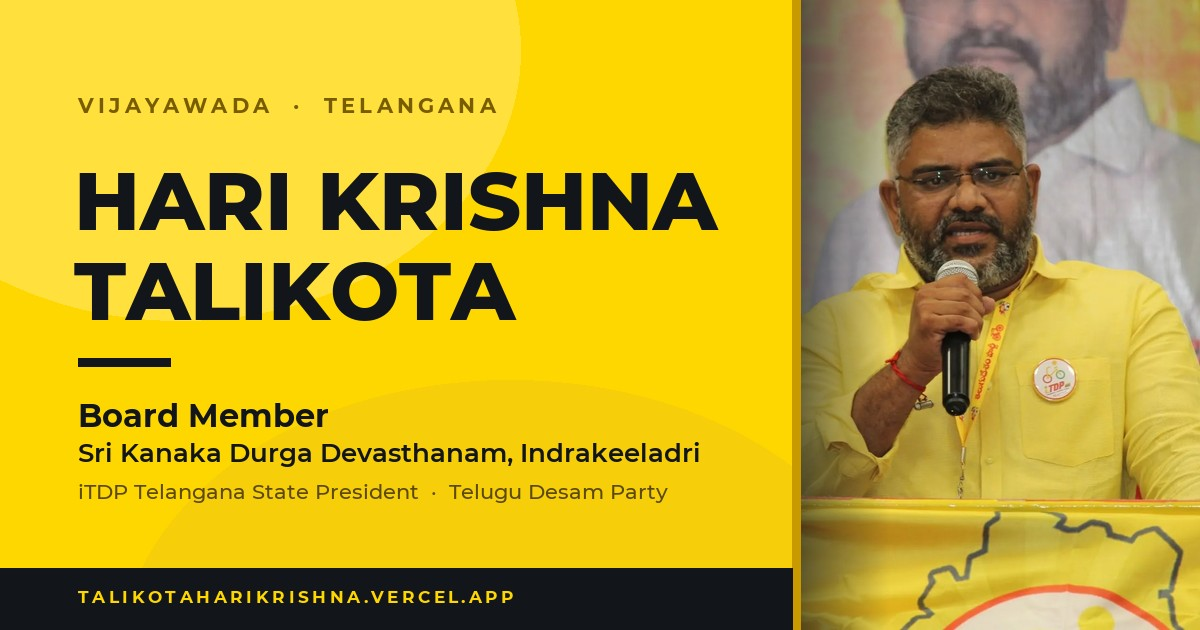
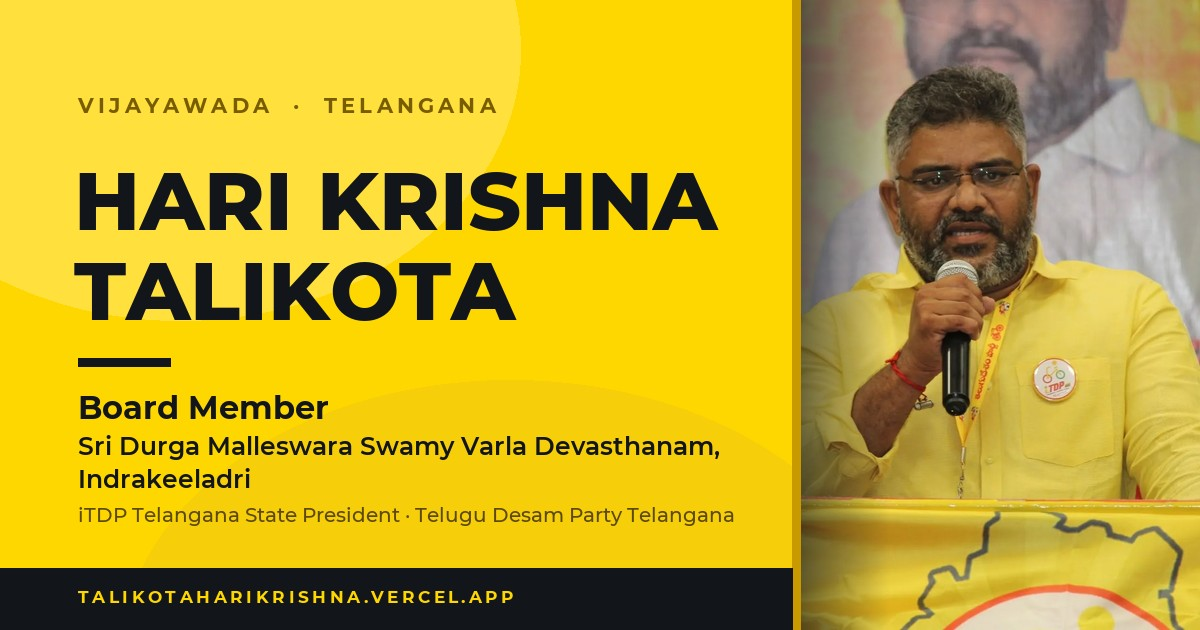
Use the Devasthanam's official name and the party's Telangana unit
Two corrections from the office, both about how institutions are named.

THE TEMPLE. The site called it "Sri Kanaka Durga Devasthanam" in 23 places and
used its actual registered name, Sri Durga Malleswara Swamy Varla Devasthanam,
in three. The board seat he holds is at the Devasthanam under its official name,
so that is now what his role says everywhere — the role line, the roles list,
every page title and description, the schema graph and the manifest.

"Kanaka Durga" is deliberately retained alongside it rather than deleted. It is
the name the temple is universally known by and the term people actually type
into a search box; the official name is 43 characters that almost nobody
searches for. Dropping it would have cost reach for no gain in accuracy, so the
official name leads and the popular one sits beside it in parentheses, in the
headings, and as alternateName in the entity graph.

THE PARTY. `party.telanganaUnit` is now "Telugu Desam Party Telangana" and is
used where his own office is named alongside the party — the homepage eyebrow
and the social card. `party.name` stays the plain legal name, because that is
what the schema.org PoliticalParty entity has to carry.

The social card had both strings burned into it as artwork. Its role block now
wraps to the measured field width instead of being positioned by eye: the
official name is long enough that at the old fixed layout it ran straight out of
the text field and into the portrait panel.
[…]

Changed region(s): [[0.0617, 0.6032, 0.6167, 0.8444]]

diff --git a/index.html b/index.html
@@ -37,8 +37,8 @@
       pointed at /og-image.jpg, a file that was never created.
     -->
 
-    <title>Hari Krishna Talikota — Sri Kanaka Durga Devasthanam Board Member &amp; iTDP Telangana State President</title>
-    <meta name="description" content="Hari Krishna Talikota — Board Member of the Sri Kanaka Durga Devasthanam at Indrakeeladri, Vijayawada, and iTDP Telangana State President of the Telugu Desam Party. Temple service, regional development and Telugu cultural preservation." />
+    <title>Hari Krishna Talikota — Devasthanam Board Member, Kanaka Durga Temple &amp; iTDP Telangana State President</title>
+    <meta name="description" content="Hari Krishna Talikota — Board Member of the Sri Durga Malleswara Swamy Varla Devasthanam at Indrakeeladri, Vijayawada, and iTDP Telangana State President of the Telugu Desam Party. Temple service, regional development and Telugu cultural preservation." />
     <meta name="author" content="Hari Krishna Talikota" />
     <meta name="robots" content="index, follow, max-image-preview:large, max-snippet:-1" />
     <link rel="canonical" href="https://talikotaharikrishna.vercel.app/" />
@@ -49,13 +49,13 @@
     <meta property="og:locale" content="en_IN" />
     <meta property="og:url" content="https://talikotaharikrishna.vercel.app/" />
     <meta property="og:title" content="Hari Krishna Talikota — Devasthanam Board Member &amp; iTDP Telangana State President" />
-    <meta property="og:description" content="Board Member, Sri Kanaka Durga Devasthanam, Indrakeeladri · iTDP Telangana State President, Telugu Desam Party." />
+    <meta property="og:description" content="Board Member, Sri Durga Malleswara Swamy Varla Devasthanam, Indrakeeladri · iTDP Telangana State President, Telugu Desam Party." />
     <meta property="og:image" content="https://talikotaharikrishna.vercel.app/og-image.jpg" />
     <meta property="og:image:secure_url" content="https://talikotaharikrishna.vercel.app/og-image.jpg" />
     <meta property="og:image:type" content="image/jpeg" />
     <meta property="og:image:width" content="1200" />
     <meta property="og:image:height" content="630" />
-    <meta property="og:image:alt" content="Hari Krishna Talikota — Board Member, Sri Kanaka Durga Devasthanam, and iTDP Telangana State President" />
+    <meta property="og:image:alt" content="Hari Krishna Talikota — Board Member, Sri Durga Malleswara Swamy Varla Devasthanam, and iTDP Telangana State President" />
     <meta property="profile:first_name" content="Hari Krishna" />
     <meta property="profile:last_name" content="Talikota" />
 
@@ -64,7 +64,7 @@
     <meta name="twitter:site" content="@THK_iTDP" />
     <meta name="twitter:creator" content="@THK_iTDP" />
     <meta name="twitter:title" content="Hari Krishna Talikota — Devasthanam Board Member &amp; iTDP Telangana State President" />
-    <meta name="twitter:description" content="Board Member, Sri Kanaka Durga Devasthanam, Indrakeeladri · iTDP Telangana State President, Telugu Desam Party." />
+    <meta name="twitter:description" content="Board Member, Sri Durga Malleswara Swamy Varla Devasthanam, Indrakeeladri · iTDP Telangana State President, Telugu Desam Party." />
     <meta name="twitter:image" content="https://talikotaharikrishna.vercel.app/og-image.jpg" />
     <meta name="twitter:image:alt" content="Hari Krishna Talikota — Devasthanam Board Member &amp; iTDP Telangana State President" />
 
@@ -136,8 +136,8 @@
           "@id": "https://talikotaharikrishna.vercel.app/#person",
           "name": "Hari Krishna Talikota",
           "alternateName": ["Talikota Harikrishna", "Hari TDP", "Haranna"],
-          "jobTitle": ["Board Member, Sri Kanaka Durga Devasthanam", "iTDP Telangana State President"],
-          "description": "Hari Krishna Talikota is the iTDP Telangana State President of the Telugu Desam Party and a Board Member of the Sri Kanaka Durga Devasthanam at Indrakeeladri, Vijayawada. He works on regional development, good governance and Telugu cultural preservation in Telangana.",
+          "jobTitle": ["Board Member, Sri Durga Malleswara Swamy Varla Devasthanam", "iTDP Telangana State President"],
+          "description": "Hari Krishna Talikota is the iTDP Telangana State President of the Telugu Desam Party and a Board Member of the Sri Durga Malleswara Swamy Varla Devasthanam at Indrakeeladri, Vijayawada. He works on regional development, good governance and Telugu cultural preservation in Telangana.",
           "url": "https://talikotaharikrishna.vercel.app/",
           "image": [
             "https://talikotaharikrishna.vercel.app/photos/portrait-headshot-621.webp",
@@ -146,7 +146,7 @@
           ],
           "nationality": { "@type": "Country", "name": "India" },
           "knowsLanguage": ["te", "en"],
-          "disambiguatingDescription": "Talikota Hari Krishna, iTDP Telangana State President of the Telugu Desam Party and a serving Board Member of the Sri Kanaka Durga Devasthanam at Indrakeeladri, Vijayawada. He is a different person from Nandamuri Harikrishna (1956-2018), the TDP politician and actor, son of party founder N. T. Rama Rao.",
+          "disambiguatingDescription": "Talikota Hari Krishna, iTDP Telangana State President of the Telugu Desam Party and a serving Board Member of the Sri Durga Malleswara Swamy Varla Devasthanam at Indrakeeladri, Vijayawada. He is a different person from Nandamuri Harikrishna (1956-2018), the TDP politician and actor, son of party founder N. T. Rama Rao.",
           "knowsAbout": [
             "Telugu Desam Party organisation in Telangana",
             "Hindu temple administration and Devasthanam governance",

diff --git a/src/data/site.js b/src/data/site.js
@@ -14,7 +14,7 @@ export const site = {
   name: 'Hari Krishna Talikota',
   shortName: 'HK Talikota',
   alternateNames: ['Talikota Harikrishna', 'Hari TDP', 'Haranna'],
-  role: 'Board Member, Sri Kanaka Durga Devasthanam',
+  role: 'Board Member, Sri Durga Malleswara Swamy Varla Devasthanam',
   roleShort: 'Devasthanam Board Member',
   secondaryRole: 'iTDP Telangana State President',
 
@@ -24,7 +24,7 @@ export const site = {
 
   tagline: 'Serving Telangana with Dedication',
   description:
-    'Hari Krishna Talikota — Board Member, Sri Kanaka Durga Devasthanam, Indrakeeladri, and iTDP Telangana State President of the Telugu Desam Party.',
+    'Hari Krishna Talikota — Board Member, Sri Durga Malleswara Swamy Varla Devasthanam (Kanaka Durga Temple), Indrakeeladri, and iTDP Telangana State President, Telugu Desam Party Telangana.',
 
   mission:
     'Dedicated to advancing the interests of the Telugu people through principled political leadership and community service. Working tirelessly for the development, prosperity, and cultural preservation of Telangana and Andhra Pradesh.',
@@ -55,7 +55,7 @@ export const site = {
 export const roles = [
   {
     title: 'Board Member',
-    org: 'Sri Kanaka Durga Devasthanam, Indrakeeladri, Vijayawada',
+    org: 'Sri Durga Malleswara Swamy Varla Devasthanam (Sri Kanaka Durga Temple), Indrakeeladri, Vijayawada',
     href: '/community',
   },
   {
@@ -103,6 +103,10 @@ export const social = [
 
 export const party = {
   name: 'Telugu Desam Party',
+  // How the office wants the Telangana unit written wherever his own office is
+  // named alongside it. `name` stays the party's plain legal name because that
+  // is what the schema.org PoliticalParty entity has to carry.
+  telanganaUnit: 'Telugu Desam Party Telangana',
   abbr: 'TDP',
   founded: 'March 29, 1982',
   foundedISO: '1982-03-29',
@@ -130,7 +134,7 @@ export const biography = {
   journey:
     'As the iTDP Telangana State President, Hari Krishna represents the Telugu Desam Party’s vision in Telangana. He is committed to the party’s founding principles established by the legendary N.T. Rama Rao — Telugu pride, regional development, and good governance. His political work focuses on creating economic opportunities, improving infrastructure, and ensuring that the voices of Telangana’s citizens are heard at all levels of government.',
   community:
-    'Serving as a Board Member of the prestigious Sri Kanaka Durga Devasthanam in Vijayawada, Hari Krishna contributes to the administration and development of one of South India’s most revered temples. This role reflects his deep commitment to preserving cultural and religious traditions while ensuring excellent service to millions of devotees.',
+    'Serving as a Board Member of the prestigious Sri Durga Malleswara Swamy Varla Devasthanam in Vijayawada, Hari Krishna contributes to the administration and development of one of South India’s most revered temples. This role reflects his deep commitment to preserving cultural and religious traditions while ensuring excellent service to millions of devotees.',
   vision:
     'Hari Krishna envisions a Telangana that honours its rich Telugu heritage while embracing modern development. His focus is on creating economic opportunities for youth, improving infrastructure, ensuring good governance, and preserving the cultural identity that makes Telangana unique.',
 }
@@ -276,7 +280,7 @@ export const temple = {
   history:
     'The temple has a rich history spanning centuries and is considered one of the most powerful Shakti Peethas in India. It plays a central role in the spiritual and cultural life of the Telugu people.',
   intro:
-    'Hari Krishna Talikota serves as a Board Member of the Sri Kanaka Durga Devasthanam in Vijayawada, one of the most revered Hindu temples in South India. This role reflects his commitment to preserving religious and cultural traditions while ensuring excellent service to devotees.',
+    'Hari Krishna Talikota serves as a Board Member of the Sri Durga Malleswara Swamy Varla Devasthanam in Vijayawada, one of the most revered Hindu temples in South India. This role reflects his commitment to preserving religious and cultural traditions while ensuring excellent service to devotees.',
   duties: [
     {
       title: 'Temple Administration',
@@ -361,7 +365,7 @@ export const updates = []
 export const faqs = [
   {
     q: 'Who is Hari Krishna Talikota?',
-    a: 'Hari Krishna Talikota is an Indian politician who serves as the iTDP Telangana State President of the Telugu Desam Party (TDP). He is also a Board Member of the Sri Kanaka Durga Devasthanam at Indrakeeladri, Vijayawada. He is based in Hyderabad, Telangana, and is also known as Talikota Harikrishna.',
+    a: 'Hari Krishna Talikota is an Indian politician who serves as the iTDP Telangana State President of the Telugu Desam Party (TDP). He is also a Board Member of the Sri Durga Malleswara Swamy Varla Devasthanam at Indrakeeladri, Vijayawada. He is based in Hyderabad, Telangana, and is also known as Talikota Harikrishna.',
   },
   {
     q: 'Which political party does Hari Krishna Talikota belong to?',

diff --git a/src/pages/Community.jsx b/src/pages/Community.jsx
@@ -20,7 +20,7 @@ const Community = () => {
     '@graph': [
       {
         '@type': 'WebPage',
-        name: 'Board Member, Sri Kanaka Durga Devasthanam',
+        name: 'Board Member, Sri Durga Malleswara Swamy Varla Devasthanam',
         url: `${site.url}/community`,
         about: { '@id': `${site.url}/#devasthanam` },
       },
@@ -61,14 +61,14 @@ const Community = () => {
   return (
     <>
       <Seo
-        title="Board Member, Sri Kanaka Durga Devasthanam"
-        description="Hari Krishna Talikota’s service as a Board Member of the Sri Kanaka Durga Devasthanam at Indrakeeladri, Vijayawada — temple governance and devotee services."
+        title="Board Member, Sri Durga Malleswara Swamy Varla Devasthanam"
+        description="Hari Krishna Talikota’s service as a Board Member of the Sri Durga Malleswara Swamy Varla Devasthanam at Indrakeeladri, Vijayawada — temple governance and devotee services."
         schema={schema}
       />
 
       <PageHero
         eyebrow="Devasthanam Board"
-        title="Board Member, Sri Kanaka Durga Devasthanam"
+        title="Board Member, Sri Durga Malleswara Swamy Varla Devasthanam"
         lead={temple.intro}
         photo={photos.bannerCommunity}
       />

diff --git a/src/pages/Home.jsx b/src/pages/Home.jsx
@@ -32,7 +32,7 @@ const Home = () => {
           <div className="grid items-center gap-10 lg:grid-cols-12 lg:gap-14">
             <div className="on-dark lg:col-span-6 xl:col-span-5">
               <Reveal as="p" delay={0.05} className="label-rule !text-brand-400 before:!bg-brand-500">
-                {site.location.region} · {party.name}
+                {party.telanganaUnit}
               </Reveal>
 
               {/* Both names at the same size and weight — the surname is not a
@@ -147,7 +147,7 @@ const Home = () => {
                 Devasthanam Board
               </p>
               <h2 className="mt-7 font-display text-title text-white">
-                Board Member, Sri Kanaka Durga Devasthanam
+                Board Member, Sri Durga Malleswara Swamy Varla Devasthanam
               </h2>
               <p className="mt-6 text-lead text-white/70">{temple.intro}</p>
               <p className="mt-5 text-white/60">

diff --git a/src/pages/About.jsx b/src/pages/About.jsx
@@ -35,7 +35,7 @@ const About = () => {
     <>
       <Seo
         title="Biography & Public Service"
-        description="Biography of Hari Krishna Talikota — Board Member of the Sri Kanaka Durga Devasthanam, Indrakeeladri, and iTDP Telangana State President, TDP."
+        description="Biography of Hari Krishna Talikota — Board Member of the Sri Durga Malleswara Swamy Varla Devasthanam, Indrakeeladri, and iTDP Telangana State President, TDP."
         schema={schema}
       />
 

diff --git a/src/components/Seo.jsx b/src/components/Seo.jsx
@@ -32,7 +32,7 @@ const Seo = ({
     // name.
     const fullTitle = title
       ? `${title} | ${site.name}`
-      : `${site.name} — Kanaka Durga Devasthanam Board Member`
+      : `${site.name} — Devasthanam Board Member, Kanaka Durga Temple`
 
     const alt = `${site.name} — ${site.role}`
 

diff --git a/scripts/generate-assets.py b/scripts/generate-assets.py
@@ -143,11 +143,38 @@ def make_og():
 
     # Roles. The temple board seat is the more widely recognised position and
     # the one people actually search for, so it leads.
-    d.text((x, 396), "Board Member", font=font("Montserrat-Bold.ttf", 32), fill=INK)
-    d.text((x, 436), "Sri Kanaka Durga Devasthanam, Indrakeeladri",
-           font=font("Montserrat-SemiBold.ttf", 26), fill=INK)
-    d.text((x, 478), "iTDP Telangana State President  ·  Telugu Desam Party",
-           font=font("Montserrat-Medium.ttf", 21), fill=(92, 74, 12))
+    #
+    # These wrap to the measured field width rather than being laid out by eye.
+    # The Devasthanam's official name is 43 characters and overflowed the text
+    # field straight into the portrait panel when it replaced the shorter
+    # popular name.
+    avail = W - PANEL - 8 - x - 24
+
+    def wrapped(text, f, fill, top, leading):
+        """Draw `text` wrapped to `avail`, return the y below the last line."""
+        words, line, y = text.split(), "", top
+        for word in words:
+            probe = f"{line} {word}".strip()
+            if d.textlength(probe, font=f) <= avail:
+                line = probe
+            else:
+                d.text((x, y), line, font=f, fill=fill)
+                y += leading
+                line = word
+        if line:
+            d.text((x, y), line, font=f, fill=fill)
+            y += leading
+        return y
+
+    d.text((x, 388), "Board Member", font=font("Montserrat-Bold.ttf", 32), fill=INK)
+    y = wrapped(
+        "Sri Durga Malleswara Swamy Varla Devasthanam, Indrakeeladri",
+        font("Montserrat-SemiBold.ttf", 25), INK, 430, 33,
+    )
+    wrapped(
+        "iTDP Telangana State President  ·  Telugu Desam Party Telangana",
+        font("Montserrat-Medium.ttf", 20), (92, 74, 12), y + 6, 26,
+    )
 
     # Footer strip
     d.rectangle([0, H - 62, W - PANEL - 8, H], fill=INK)
